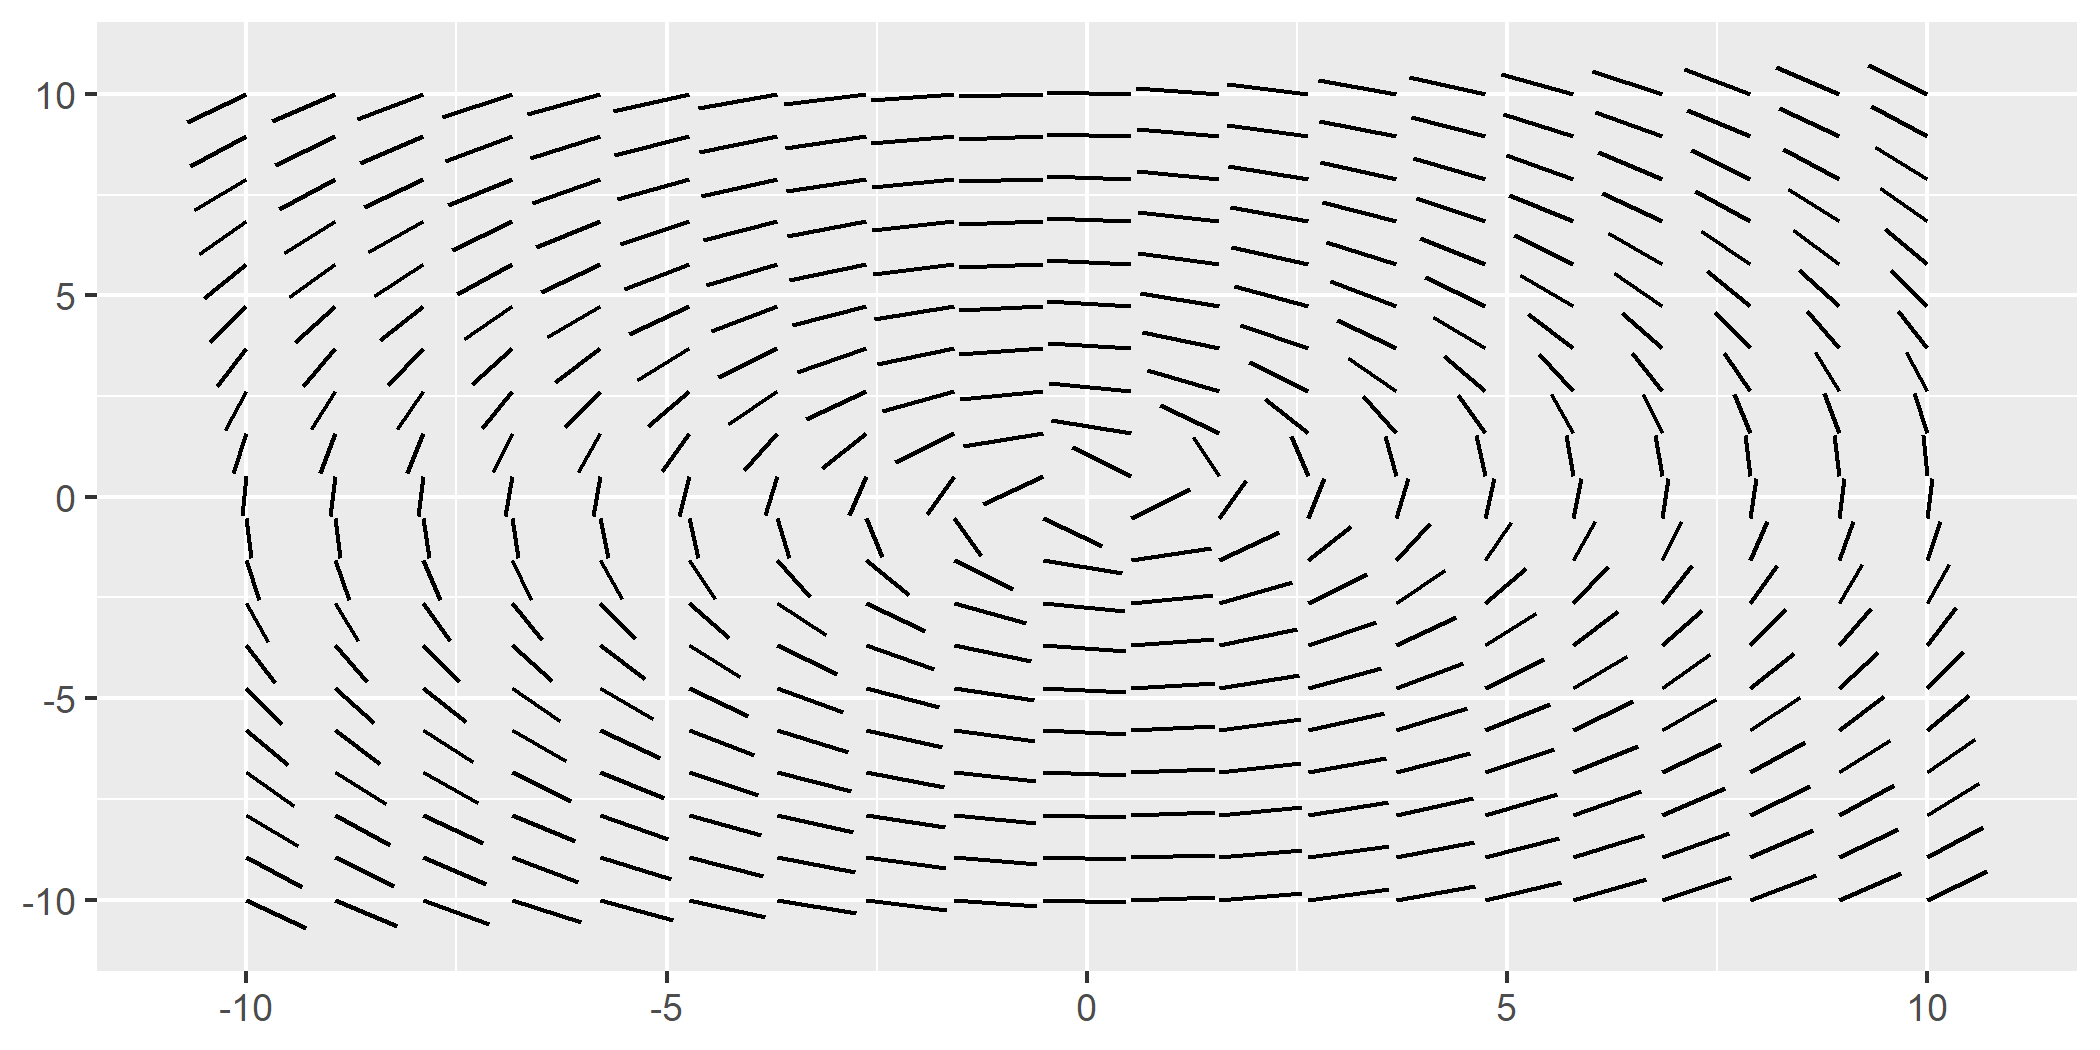
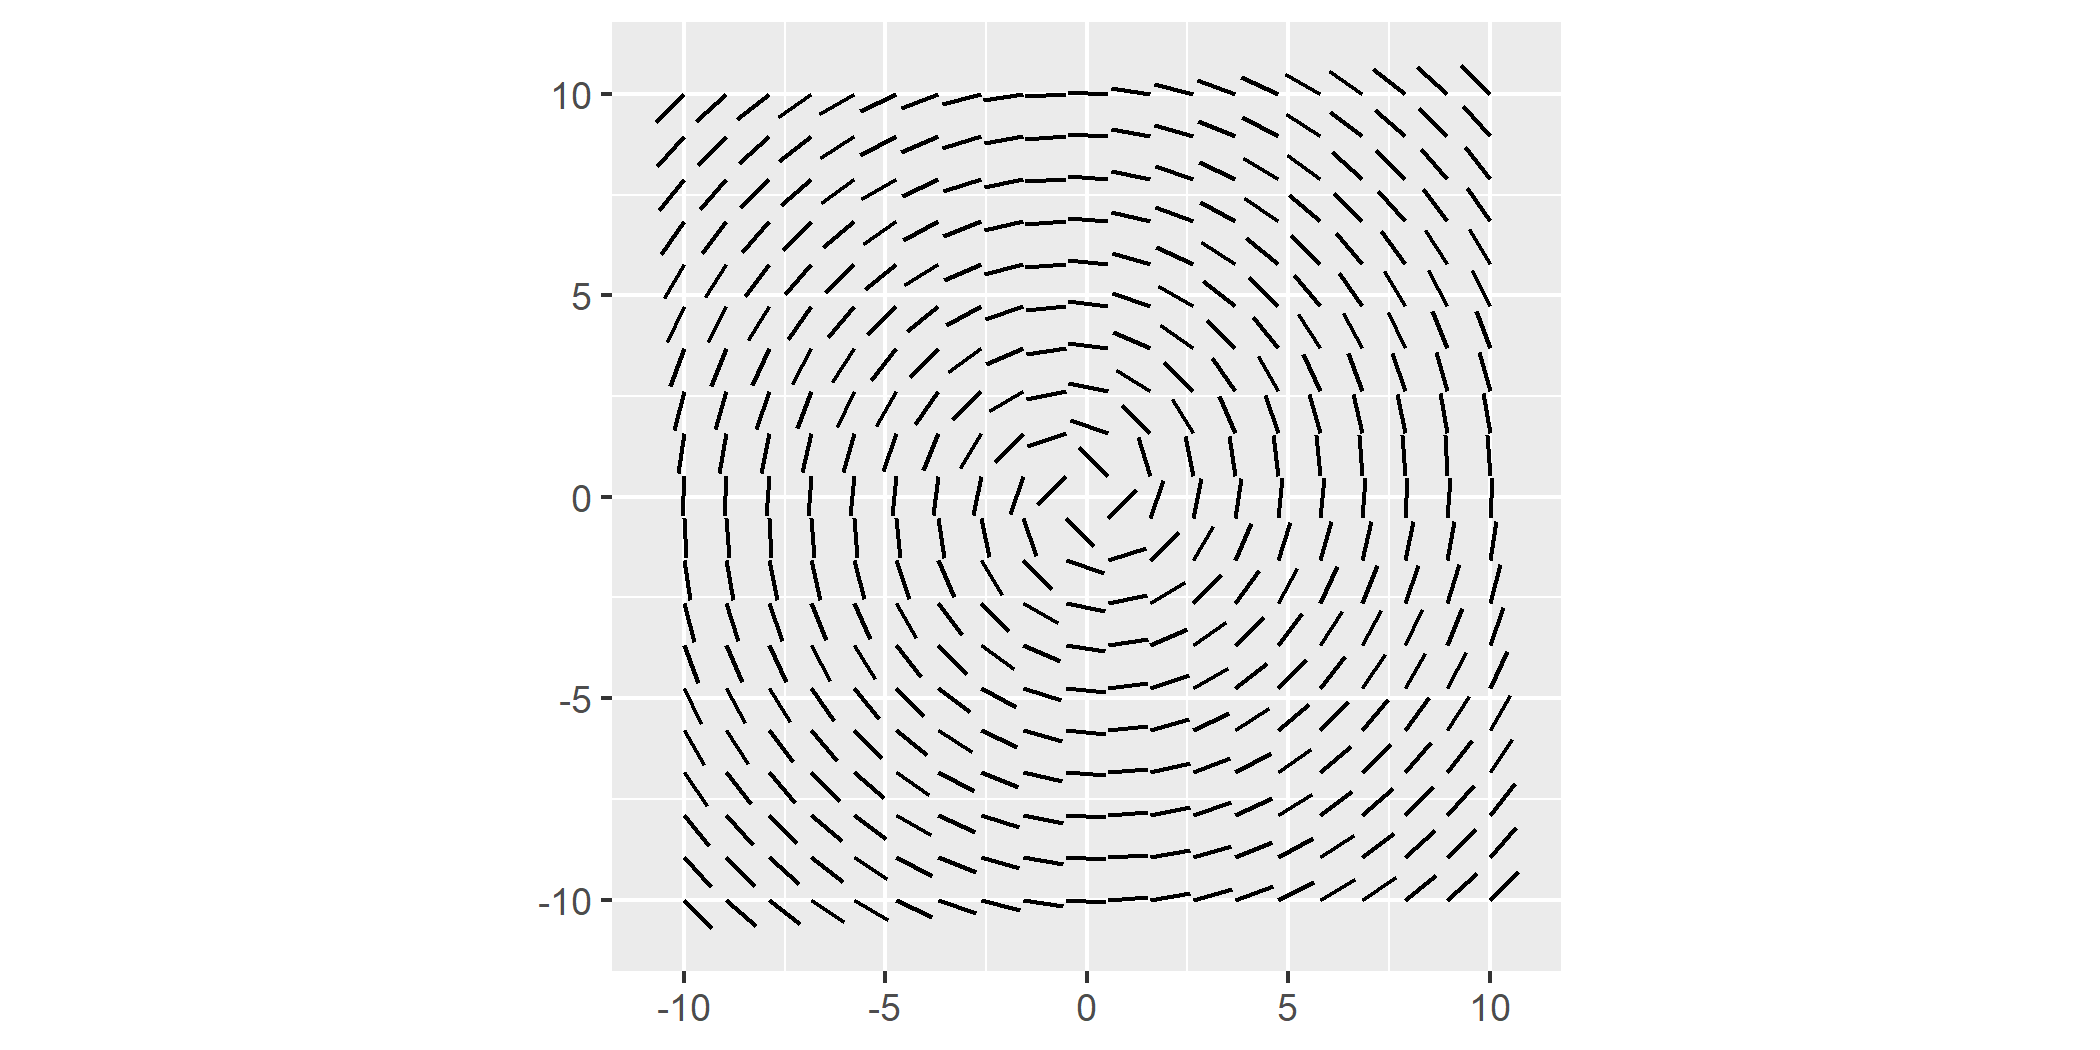
fix coordinates

diff --git a/README.md b/README.md
@@ -46,7 +46,8 @@ f <- function(x, y) {
 
 # Create a ggplot with the vector field layer
 ggplot() +
-  geom_vector_field(fun = f, xlim = c(-10, 10), ylim = c(-10, 10), n = 20)
+  geom_vector_field(fun = f, xlim = c(-10, 10), ylim = c(-10, 10), n = 20) +
+  coord_fixed()
 ```
 
 <img src="man/figures/README-unnamed-chunk-3-1.png" width="100%" />
@@ -68,7 +69,8 @@ f <- function(z) (z^2 + 1) / (z^2 - 1)
 # Create a ggplot with the complex vector field layer
 ggplot() +
   geom_complex_vector_field(fun = f, relim = c(-2, 2), imlim = c(-2, 2), n = 100) +
-  labs(x = "Real", y = "Imaginary")
+  labs(x = "Real", y = "Imaginary") +
+  coord_fixed()
 ```
 
 <img src="man/figures/README-unnamed-chunk-4-1.png" width="100%" />
